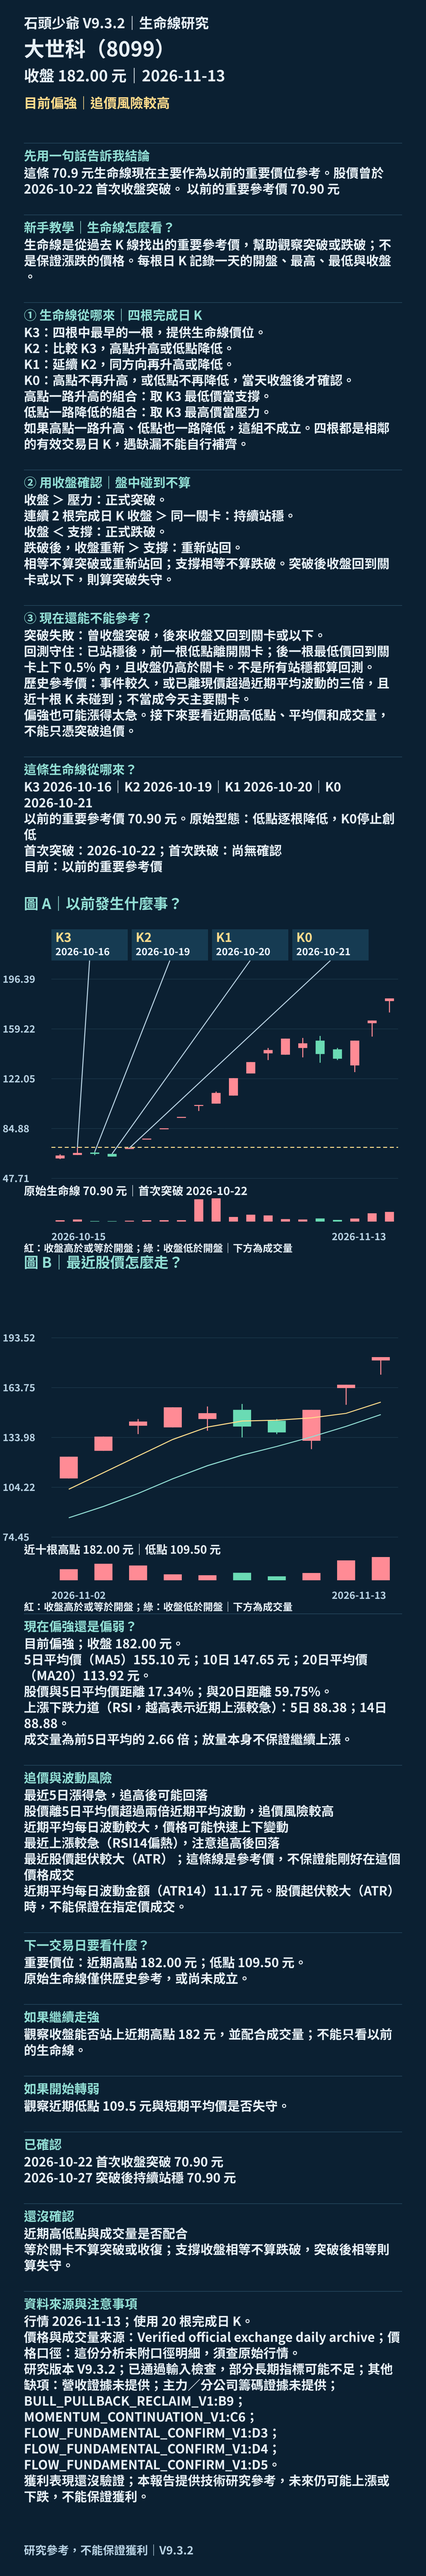
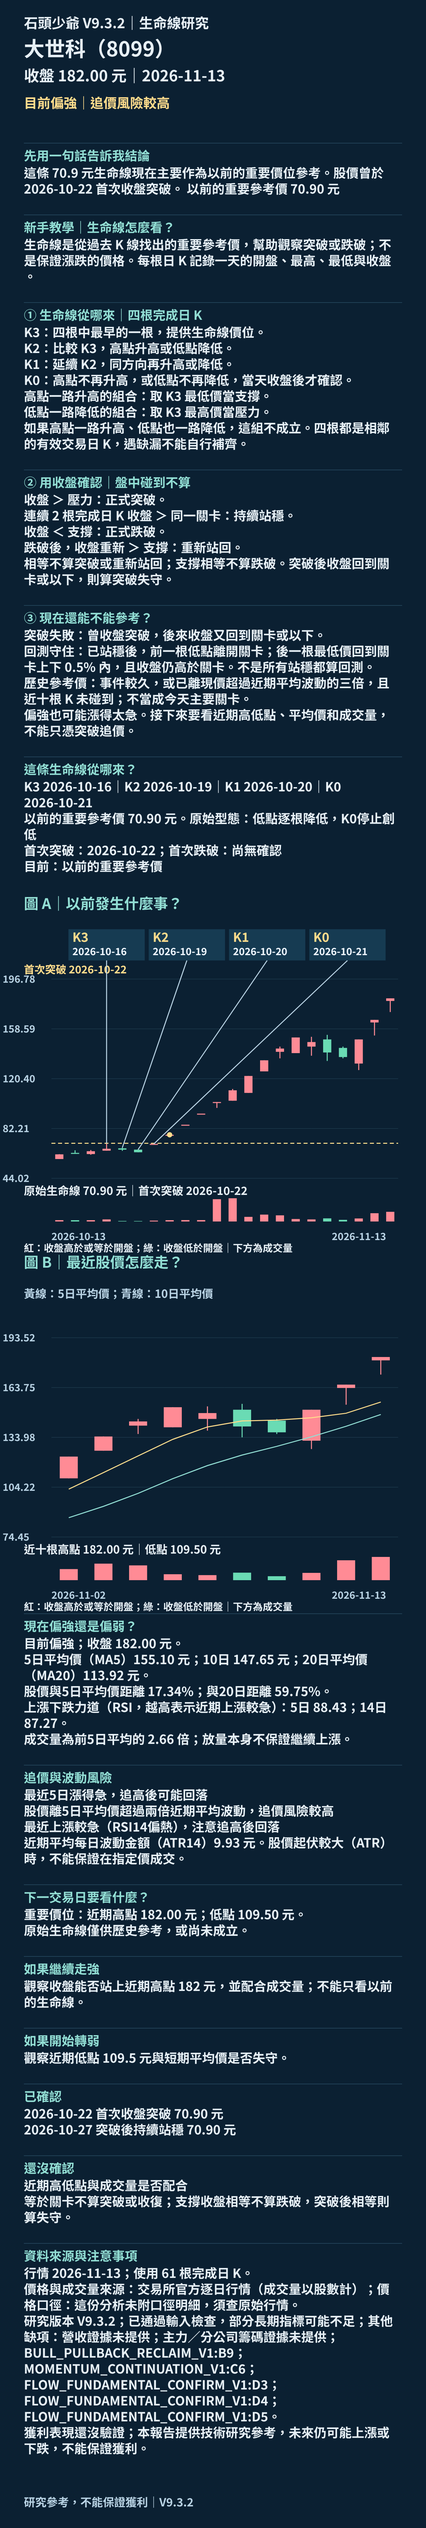
fix: preserve older events using synchronized verified history and render dated confirmations

diff --git a/kline-life-03-report-v1.js b/kline-life-03-report-v1.js
@@ -4,7 +4,7 @@
 const VERSION='KLINE_LIFE_03_REPORT_V1';
 const Layout=typeof module==='object'&&module.exports?require('./research-chart-layout-v921.js'):globalThis.ShitouChartLayout921;
 const fmt=x=>typeof x==='number'&&Number.isFinite(x)?x.toFixed(2):'資料不足';
-const money=x=>fmt(x)+' 元';
+const money=x=>typeof x==='number'&&Number.isFinite(x)?fmt(x)+' 元':'資料不足';
 const names={RESISTANCE_WATCH:'還沒突破上方壓力',BREAKOUT_INITIAL:'首次收盤突破',BREAKOUT_HELD:'突破後持續站穩',BREAKOUT_CONFIRMED:'首次收盤突破',BREAKOUT_FAILED:'突破後又跌回來',SUPPORT_WATCH:'下方支撐仍在觀察',SUPPORT_BROKEN:'跌破重要支撐',SUPPORT_RECLAIMED:'跌破後重新站回',RETEST_HELD:'回頭測試後仍守住',HISTORICAL_REFERENCE:'以前的重要參考價',INSUFFICIENT_DATA:'資料不足，無法確認'};
 function inspect(a){const study=Core.evaluate(a);return {...study,name:study.name||a?.name||'',code:study.code||a?.code||''};}
 function teaching(){return [
@@ -27,14 +27,14 @@ function fields(x){
  {title:'還沒確認',value:(x.scenario?.pending||['資料是否完整']).join('；')+'\n'+(x.scenario?.neutral||'需取得完成日 K 才能判讀。')},
  {title:'現在偏強還是偏弱？',value:'目前'+(t.label||'資料不足')+'；收盤 '+money(x.close)+'。\n5日平均價（MA5）'+money(t.ma5)+'；10日 '+money(t.ma10)+'；20日平均價（MA20）'+money(t.ma20)+'。\n股價與5日平均價距離 '+fmt(t.deviation5)+'%；與20日距離 '+fmt(t.deviation20)+'%。\n上漲下跌力道（RSI，越高表示近期上漲較急）：5日 '+fmt(t.rsi5)+'；14日 '+fmt(t.rsi14)+'。\n成交量為前5日平均的 '+fmt(t.volumeRatio)+' 倍；放量本身不保證繼續上漲。'},
  {title:'追價與波動風險',value:[...(x.chaseRisk?.reasons||[]),...x.riskWarnings.map(Layout.plain)].join('\n')+'\n近期平均每日波動金額（ATR14）'+money(t.atr14)+'。股價起伏較大（ATR）時，不能保證在指定價成交。'},
- {title:'資料來源與注意事項',value:'行情 '+(x.dataAsOf||x.date||'尚未核對')+'；使用 '+(x.historyBarCount||0)+' 根完成日 K。\n價格與成交量來源：'+(x.dataSource||'尚未提供')+'；價格口徑：'+(x.priceAdjustment?.basis||'這份分析未附口徑明細，須查原始行情')+'。\n研究版本 V9.3.2；'+(x.state==='INSUFFICIENT_DATA'?'資料不足':'已通過輸入檢查，部分長期指標可能不足')+'；其他缺項：'+((x.dataCompleteness?.missing||[]).join('；')||'未列出')+'。\n獲利表現還沒驗證；本報告提供技術研究參考，未來仍可能上漲或下跌，不能保證獲利。'}
+ {title:'資料來源與注意事項',value:'行情 '+(x.dataAsOf||x.date||'尚未核對')+'；使用 '+(x.historyBarCount||0)+' 根完成日 K。\n價格與成交量來源：'+(x.dataSource==='Verified official exchange daily archive'?'交易所官方逐日行情（成交量以股數計）':x.dataSource||'尚未提供')+'；價格口徑：'+(x.priceAdjustment?.basis||'這份分析未附口徑明細，須查原始行情')+'。\n研究版本 V9.3.2；'+(x.state==='INSUFFICIENT_DATA'?'資料不足':'已通過輸入檢查，部分長期指標可能不足')+'；其他缺項：'+((x.dataCompleteness?.missing||[]).join('；')||'未列出')+'。\n獲利表現還沒驗證；本報告提供技術研究參考，未來仍可能上漲或下跌，不能保證獲利。'}
  ];return {summary,details,teaching:teaching(),statusCode:e?.lifecycleState||'INSUFFICIENT_DATA',title,importantPrices:{line:e?.referenceOnly?null:e?.lifeLinePrice??null,high:t.recentHigh??null,low:t.recentLow??null}};
 }
 function lines(x){const v=fields(x);return [v.summary,...v.teaching,...v.details].map(f=>'【'+f.title+'】'+f.value);}
 function page(x,{document:doc=globalThis.document,displayCode=globalThis.ShitouReleaseV50?.displayCode||'V9.3.2',watermark=false,bars:source=[]}={}){
  if(!doc?.createElement)return null;
  const W=1284,M=72,WIDTH=W-2*M,probe=doc.createElement('canvas').getContext('2d');if(!probe)return null;
- const v=fields(x),bars=Array.isArray(source)&&source.at(-1)?.date===x.date?source.filter(b=>b.date<=x.date):[];
+ const v=fields(x);source=x.validatedBars||source;const bars=Array.isArray(source)&&source.at(-1)?.date===x.date?source.filter(b=>b.date<=x.date):[];
  const historical=x.event?bars.slice(Math.max(0,bars.findIndex(b=>b.date===x.event.k3Date)-3)):bars.slice(-30),recent=bars.slice(-10);
  let top=430;const sections=[];
  const cards=items=>{const blocks=Layout.blocks(probe,items,{top,width:WIDTH,size:38});sections.push({kind:'cards',blocks});top=blocks.at(-1).top+blocks.at(-1).height+36;};
@@ -62,8 +62,9 @@ function page(x,{document:doc=globalThis.document,displayCode=globalThis.ShitouR
    for(let i=0;i<=4;i++){const yy=p.y+i*p.height/4;q.strokeStyle='#29495d';q.lineWidth=1;q.beginPath();q.moveTo(p.x,yy);q.lineTo(p.x+p.width,yy);q.stroke();Layout.font(q,30);q.fillStyle='#b8d2e3';q.fillText(fmt(max-(max-min)*i/4),8,yy-15);}
    const maxVol=Math.max(...rows.map(b=>b.volume));
    rows.forEach((b,i)=>{const xx=xp(i);q.strokeStyle=q.fillStyle=b.close>=b.open?'#ff8b95':'#6adbb4';q.lineWidth=3;q.beginPath();q.moveTo(xx,yp(b.high));q.lineTo(xx,yp(b.low));q.stroke();q.fillRect(xx-g.dx*.26,Math.min(yp(b.open),yp(b.close)),Math.max(2,g.dx*.52),Math.max(3,Math.abs(yp(b.open)-yp(b.close))));q.fillRect(xx-g.dx*.26,s.top+980-b.volume/maxVol*70,Math.max(2,g.dx*.52),b.volume/maxVol*70);});
-   if(s.history&&x.event){q.strokeStyle='#ffdc8c';q.setLineDash([12,8]);q.beginPath();q.moveTo(p.x,yp(x.line));q.lineTo(p.x+p.width,yp(x.line));q.stroke();q.setLineDash([]);text('原始生命線 '+money(x.line)+'｜首次突破 '+(x.event.firstBreakoutDate||'尚無'),s.top+870,34);g.labels.forEach(e=>{q.strokeStyle='#b8d2e3';q.beginPath();q.moveTo(e.x+e.width/2,e.y+e.height);q.lineTo(e.anchorX,e.anchorY);q.stroke();q.fillStyle='#163b52';q.fillRect(e.x,e.y,e.width,e.height);text(e.key,e.y+5,38,'#ffdc8c',e.x+12);Layout.font(q,30);q.fillStyle='#eef6ff';q.fillText(e.date,e.x+12,e.y+52);});
-   }else{const trend=x.currentTrend||{};for(const [n,color] of [[5,'#ffdc8c'],[10,'#92ded4']]){q.strokeStyle=color;q.lineWidth=3;q.beginPath();let started=false;rows.forEach((b,i)=>{const j=bars.indexOf(b);if(j<n-1)return;const value=bars.slice(j-n+1,j+1).reduce((a,b)=>a+b.close,0)/n;if(!started){q.moveTo(xp(i),yp(value));started=true;}else q.lineTo(xp(i),yp(value));});q.stroke();}text('近十根高點 '+money(trend.recentHigh)+'｜低點 '+money(trend.recentLow),s.top+870,34);}
+   if(s.history&&x.event){const firstDate=x.event.firstBreakoutDate||x.event.firstBreakdownDate,firstIndex=rows.findIndex(b=>b.date===firstDate);if(firstIndex>=0){text((x.event.firstBreakoutDate?'首次突破 ':'首次跌破 ')+firstDate,s.top+205,32,'#ffdc8c');q.fillStyle='#ffdc8c';q.beginPath();q.arc(xp(firstIndex),yp(rows[firstIndex].close),8,0,Math.PI*2);q.fill();}
+   q.strokeStyle='#ffdc8c';q.setLineDash([12,8]);q.beginPath();q.moveTo(p.x,yp(x.line));q.lineTo(p.x+p.width,yp(x.line));q.stroke();q.setLineDash([]);text('原始生命線 '+money(x.line)+'｜首次突破 '+(x.event.firstBreakoutDate||'尚無'),s.top+870,34);g.labels.forEach(e=>{q.strokeStyle='#b8d2e3';q.beginPath();q.moveTo(e.x+e.width/2,e.y+e.height);q.lineTo(e.anchorX,e.anchorY);q.stroke();q.fillStyle='#163b52';q.fillRect(e.x,e.y,e.width,e.height);text(e.key,e.y+5,38,'#ffdc8c',e.x+12);Layout.font(q,30);q.fillStyle='#eef6ff';q.fillText(e.date,e.x+12,e.y+52);});
+   }else{text('黃線：5日平均價；青線：10日平均價',s.top+100,34,'#b8d2e3');const trend=x.currentTrend||{};for(const [n,color] of [[5,'#ffdc8c'],[10,'#92ded4']]){q.strokeStyle=color;q.lineWidth=3;q.beginPath();let started=false;rows.forEach((b,i)=>{const j=bars.indexOf(b);if(j<n-1)return;const value=bars.slice(j-n+1,j+1).reduce((a,b)=>a+b.close,0)/n;if(!started){q.moveTo(xp(i),yp(value));started=true;}else q.lineTo(xp(i),yp(value));});q.stroke();}text('近十根高點 '+money(trend.recentHigh)+'｜低點 '+money(trend.recentLow),s.top+870,34);}
    Layout.font(q,30);q.fillStyle='#b8d2e3';q.fillText(rows[0].date,p.x,s.top+1010);q.fillText(rows.at(-1).date,p.x+p.width-200,s.top+1010);text('紅：收盤高於或等於開盤；綠：收盤低於開盤｜下方為成交量',s.top+1045,30);
   }
   text('研究參考，不能保證獲利｜'+displayCode,H-95,34,'#b8d2e3');if(watermark&&globalThis.ShitouReportWatermark?.paint)globalThis.ShitouReportWatermark.paint(q,{width:W,height:H,type:'all'});

diff --git a/kline-life-03-core-v1.js b/kline-life-03-core-v1.js
@@ -21,6 +21,11 @@ function validate(input,asOf){
  if(analysis){
   if(report.validation?.technicalModelAvailable!==true)return {ok:false,reason:'研究日K尚未取得完整來源認證'};
   rows=report.sourceBars;datum=report.date;
+  if(Array.isArray(report.reportBars)&&report.reportBars.length>=rows.length){
+   const tail=report.reportBars.slice(-rows.length);
+   if(!rows.every((b,i)=>['date','open','high','low','close','volume'].every(k=>b[k]===tail[i]?.[k])))return {ok:false,reason:'歷史窗口與近期行情不同步'};
+   rows=report.reportBars;
+  }
  }else{
   if(report.completed!==true||report.isComplete===false||report.suspended===true)return {ok:false,reason:'尚未確認盤後完成日K'};
   if(report.priceAdjustment?.verified!==true||!report.priceAdjustment.basis)return {ok:false,reason:'除權息價格口徑尚未核驗'};
@@ -155,7 +160,7 @@ function evaluate(input,options={}){
    event:ev,events:events.slice(-p.maxEvents),close,line,distancePct:line?pct(close,line):null,
    previousState:ev?.lastTransition?.previousState||null,currentState:ev?.status||null,
    transitionDate:ev?.lastTransition?.transitionDate||null,transitionReason:ev?.lastTransition?.transitionReason||null,
-   ...info,...currentTrend,dataSource:input?.dataSource||input?.priceAdjustment?.source||null,priceAdjustment:input?.priceAdjustment||null,dataCompleteness:input?.dataQuality||{complete:true,missing:[]},scenario,lifecycleState:ev?.lifecycleState||"INSUFFICIENT_DATA",currentRole:ev?.currentRole||null,referenceOnly:ev?.referenceOnly??null,opposing,dataAsOf:v.date,performanceValidated:false,historyBarCount:bars.length,validatedAsOf:v.date});
+   ...info,...currentTrend,validatedBars:bars.map(b=>({...b})),dataSource:input?.dataSource||input?.priceAdjustment?.source||null,priceAdjustment:input?.priceAdjustment||null,dataCompleteness:input?.dataQuality||{complete:true,missing:[]},scenario,lifecycleState:ev?.lifecycleState||"INSUFFICIENT_DATA",currentRole:ev?.currentRole||null,referenceOnly:ev?.referenceOnly??null,opposing,dataAsOf:v.date,performanceValidated:false,historyBarCount:bars.length,validatedAsOf:v.date});
 }
 function currentEvidence(bars){
  const z=bars.at(-1),mean=n=>bars.length>=n?bars.slice(-n).reduce((s,b)=>s+b.close,0)/n:null;

diff --git a/kline-life-03-outcomes-v932.js b/kline-life-03-outcomes-v932.js
@@ -19,6 +19,15 @@ function study(inputs,{testStart,testEnd}={}){
   }
  }
  }
- return {version:'LIFE03_OUTCOMES_V932',state:'DESCRIPTIVE_ONLY',performanceValidated:false,performance:'NOT_VALIDATED',outOfSampleValidated:false,sampleAdequacy:'NOT_ESTABLISHED',testStart,testEnd,records,rejected,completed:Object.fromEntries([1,3,5].map(n=>[n,records.filter(r=>r.outcomes[n].state==='COMPLETED').length])),note:'收盤後價格研究，不含成本與成交可行性；未建立可靠樣本外驗證，不得宣稱勝率提高。'};
+ const groups={};
+ for(const field of ['trigger','overheated','highDeviation'])for(const value of [...new Set(records.map(r=>r[field]))]){
+  const selected=records.filter(r=>r[field]===value),key=field+':'+String(value);
+  groups[key]=Object.fromEntries([1,3,5].map(n=>{const completed=selected.map(r=>r.outcomes[n]).filter(o=>o.state==='COMPLETED');return [n,{completed:completed.length,pending:selected.length-completed.length,sampleState:completed.length<30?'INSUFFICIENT_SAMPLE':'DESCRIPTIVE_ONLY',meanCloseReturnPct:completed.length?completed.reduce((s,o)=>s+o.closeReturnPct,0)/completed.length:null,meanDrawdownPct:completed.length?completed.reduce((s,o)=>s+o.maxDrawdownPct,0)/completed.length:null}];}));
+ }
+ for(const label of ['BELOW_6_PCT','AT_LEAST_6_PCT','UNKNOWN']){
+  const selected=records.filter(r=>label==='UNKNOWN'?r.atrPct===null:label==='BELOW_6_PCT'?r.atrPct!==null&&r.atrPct<6:r.atrPct!==null&&r.atrPct>=6);
+  groups['volatility:'+label]={events:selected.length,failedBreakouts:selected.filter(r=>r.trigger==='BREAKOUT_FAILED').length,sampleState:selected.length<30?'INSUFFICIENT_SAMPLE':'DESCRIPTIVE_ONLY'};
+ }
+ return {version:'LIFE03_OUTCOMES_V932',groups,state:'DESCRIPTIVE_ONLY',performanceValidated:false,performance:'NOT_VALIDATED',outOfSampleValidated:false,sampleAdequacy:'NOT_ESTABLISHED',testStart,testEnd,records,rejected,completed:Object.fromEntries([1,3,5].map(n=>[n,records.filter(r=>r.outcomes[n].state==='COMPLETED').length])),note:'收盤後價格研究，不含成本與成交可行性；未建立可靠樣本外驗證，不得宣稱勝率提高。'};
 }
 module.exports={study};

diff --git a/docs/v932-life-line.md b/docs/v932-life-line.md
@@ -4,6 +4,8 @@
 
 ## 修正原因與資料契約
 
+原分析 sourceBars 只有20根；改用相同來源的 reportBars 較長窗口前，逐根核對近期20根的日期與開高低收量一致。不同步就拒絕判讀，PNG 直接使用核心 validatedBars，避免兩種窗口混用。
+
 原核心已記錄首次突破，但 scenario 只依原始 side 產生，導致已突破後仍等待首次突破。原 state 也把歷史型態當作當下強弱，且無連續站穩狀態。
 
 保留 VERSION、MODEL、eventId、原 status 及原偵測公式，以維持介面與事件識別。新增 lifecycleState、currentRole、referenceOnly、originalEvent、firstBreakoutDate、firstBreakdownDate、latestConfirmationDate、lastTransitionDate、eventAgeBars、distanceFromCurrentPricePct、statusReason、dataAsOf。各次再次突破有獨立 trace eventId，原事件 ID 保留。
@@ -28,7 +30,7 @@ K3～K0 是連續四根完成日 K：K3→K2→K1 嚴格高點遞增且非低點
 - K2 10/19：最低 65.10；K1 10/20：最低 64.00。
 - K0 10/21：最低 70.40，確認低點不再降低；原始壓力 70.90。
 - 10/22 收盤 77.40：首次突破。下一根完成交易日 10/27 繼續站上，標記站穩。
-- 11/13 收盤 182.00，原線只供歷史參考。MA5 155.10、MA10 147.65、MA20 113.925；5日乖離約 17.34%，RSI5 約 88.38、RSI14 約 88.88、ATR14 約 11.17。近期偏強，追價風險較高。
+- 11/13 收盤 182.00，原線只供歷史參考。MA5 155.10、MA10 147.65、MA20 113.925；5日乖離約 17.34%，RSI5 約 88.43、RSI14 約 87.27、ATR14 約 9.93（61根已驗證歷史窗口）。近期偏強，追價風險較高。
 - 下一交易日觀察近十根高低點、平均價及成交量，不再要求首次突破 70.90。
 
 口徑為交易所未還原成交價格。corporateActionsVerified=false，不能宣稱完整除權息事件已核驗；不把不同口徑串接。原分析若未攜帶口徑明細，報告直接標明，不能補造。
